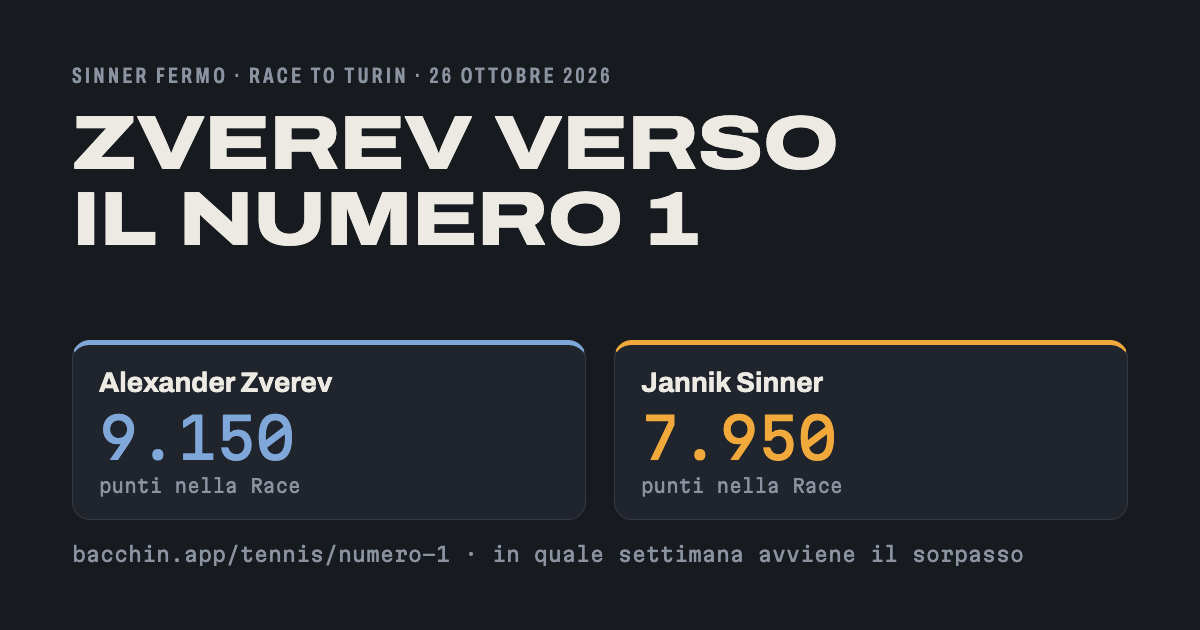
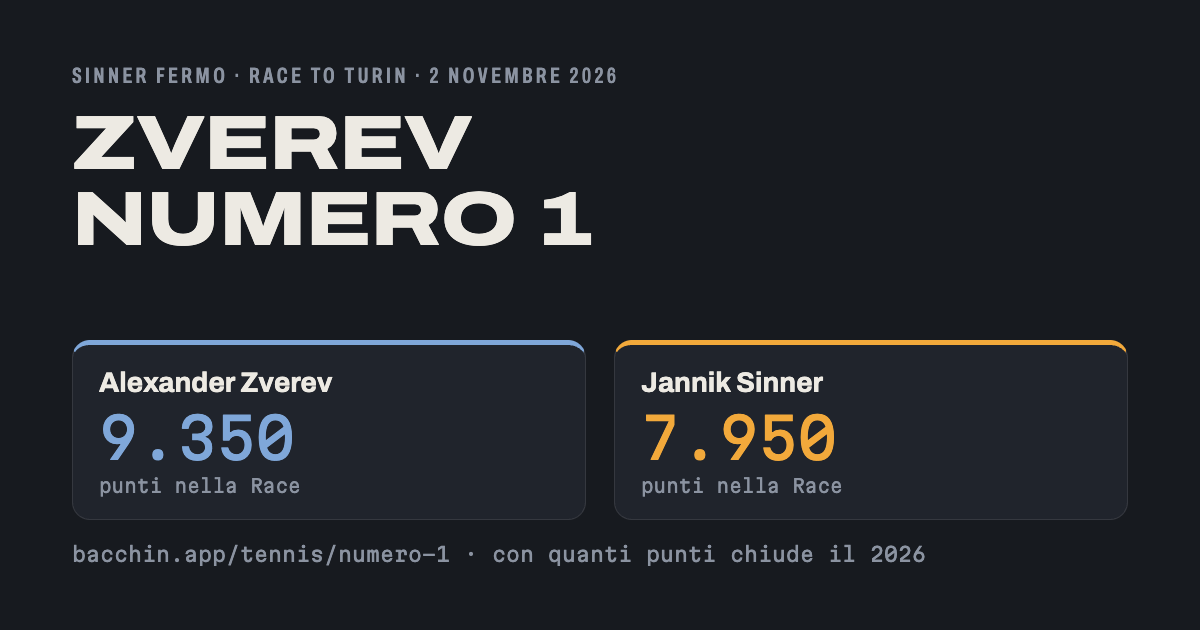
Simulatore ATP: punti al 2 novembre 2026, Zverev numero 1
Zverev semifinale a Vienna (+200), escono i punti di Parigi 2025.
Classifica: Zverev 9.550, Sinner 9.450. Race: Zverev 9.350, Sinner 7.950.
Nuova domanda della pagina: con quanti punti Zverev chiude il 2026.

diff --git a/tennis/numero-1.html b/tennis/numero-1.html
@@ -3,10 +3,10 @@
 <head>
 <meta charset="UTF-8">
 <meta name="viewport" content="width=device-width, initial-scale=1.0, viewport-fit=cover">
-<title>Zverev verso il numero 1 ATP: quando sorpassa Sinner? Simulatore 2026</title>
-<meta name="description" content="Sinner ha chiuso la stagione per l'infortunio al ginocchio e resta a 7.950 punti: Zverev ne ha già 9.150. Scegli i risultati di Zverev da Vienna e Basilea alle ATP Finals e vedi in quale settimana diventa numero 1.">
-<meta property="og:title" content="Sinner fermo, Zverev verso il numero 1: quando arriva il sorpasso">
-<meta property="og:description" content="Zverev è davanti di 1.200 punti nella Race e Sinner non gioca più nel 2026. Scegli i risultati da Vienna a Torino e guarda in quale settimana cambia il numero 1.">
+<title>Zverev numero 1 ATP: con quanti punti chiude il 2026? Simulatore</title>
+<meta name="description" content="Dal 2 novembre Zverev è numero 1 ATP con 9.550 punti, 100 più di Sinner, che ha chiuso la stagione per l'infortunio al ginocchio. Scegli i risultati di Zverev a Parigi e alle ATP Finals e vedi con quanti punti chiude l'anno.">
+<meta property="og:title" content="Zverev è il nuovo numero 1 ATP: con quanti punti chiude il 2026">
+<meta property="og:description" content="Zverev è davanti di 1.400 punti nella Race e Sinner non gioca più nel 2026. Scegli i risultati a Parigi e a Torino e guarda come si allarga il distacco settimana per settimana.">
 <meta property="og:type" content="website">
 <meta property="og:url" content="https://bacchin.app/tennis/numero-1">
 <meta property="og:image" content="https://bacchin.app/tennis/numero-1.png">
@@ -89,8 +89,8 @@
   <div class="app-hero">
     <p class="avviso-lingua" id="avviso-lingua" hidden><a id="avviso-lingua-link" href="/tennis/number-1" hreflang="en" lang="en">This page is available in English →</a></p>
     <p class="etichetta" data-t="occhiello">Simulatore · classifica ATP 2026</p>
-    <h1 data-t="titolo">Sinner fermo, Zverev verso il numero 1: quando arriva il sorpasso?</h1>
-    <p class="tesi" data-t="tesi">Sinner ha chiuso la stagione per l'infortunio al ginocchio: non farà altri punti e a fine anno resterà a 7.950. Zverev ne ha già 9.150 nella Race, quindi finirà il 2026 davanti a lui. Resta da capire quando lo supera in classifica: scegli i risultati di Zverev e guarda in quale settimana diventa numero 1.</p>
+    <h1 data-t="titolo">Zverev numero 1 ATP: con quanti punti chiude il 2026?</h1>
+    <p class="tesi" data-t="tesi">Dal 2 novembre Zverev è numero 1 ATP: 9.550 punti contro i 9.450 di Sinner, che ha chiuso la stagione per l'infortunio al ginocchio. Sinner non farà altri punti. Il 16 novembre perde i 1.500 delle Finals 2025 e scende a 7.950. Scegli i risultati di Zverev a Parigi e a Torino e guarda con quanti punti chiude l'anno.</p>
     <p class="lingua etichetta"><a id="altra-lingua" href="/tennis/number-1" hreflang="en">English</a></p>
   </div>
 
@@ -104,11 +104,11 @@
       </div>
       <div class="scarto">
         <span class="etichetta" data-t="distacco">Distacco</span>
-        <span class="scarto__valore" id="scarto">1.200</span>
+        <span class="scarto__valore" id="scarto">1.400</span>
       </div>
       <div class="giocatore giocatore--z">
         <div class="giocatore__nome">Alexander Zverev</div>
-        <div class="giocatore__punti" id="punti-z">9.150</div>
+        <div class="giocatore__punti" id="punti-z">9.350</div>
         <div class="giocatore__sotto" id="sotto-z"></div>
       </div>
     </div>
@@ -125,7 +125,7 @@
     <div class="tornei" id="tornei"></div>
 
     <h2 data-t="h-settimane">La classifica ATP, settimana per settimana</h2>
-    <p data-t="settimane-intro">La classifica ATP conta le ultime 52 settimane: i punti del 2025 escono 52 settimane dopo, non quando si gioca lo stesso torneo nel 2026. Nel 2026 Shanghai è finito più tardi, quindi i punti di Vienna e Basilea 2025 sono usciti il 26 ottobre e quelli di Parigi 2025 escono il 2 novembre, una settimana prima dei tornei 2026. Quelli delle Finals 2025 escono lunedì 16 novembre, prima che il torneo finisca. Dopo le Finals restano solo i punti del 2026: la classifica coincide con la Race.</p>
+    <p data-t="settimane-intro">La classifica ATP conta le ultime 52 settimane: i punti del 2025 escono 52 settimane dopo, non quando si gioca lo stesso torneo nel 2026. Nel 2026 Shanghai è finito più tardi, quindi i punti di Vienna e Basilea 2025 sono usciti il 26 ottobre e quelli di Parigi 2025 il 2 novembre, una settimana prima dei tornei 2026. Quelli delle Finals 2025 escono lunedì 16 novembre, prima che il torneo finisca. Dopo le Finals restano solo i punti del 2026: la classifica coincide con la Race.</p>
     <div class="scorri">
       <table class="tabella">
         <thead><tr><th data-t="quando">Quando</th><th class="num">Sinner</th><th class="num">Zverev</th><th data-t="n1">N. 1</th></tr></thead>
@@ -149,17 +149,18 @@
 (function () {
   'use strict';
 
-  // ── Dati al 26 ottobre 2026, usciti i punti di Vienna 2025 ──────────────
-  // Classifica ATP ufficiale del 26 ottobre: pagina ATP «Rank Breakdown» di entrambi
-  //   = live-tennis.eu (Pts) + i punti di Parigi 2025 che live-tennis.eu ha già tolto.
-  // Race: live-tennis.eu. Sinner non gioca più nel 2026 (ginocchio). Zverev a Vienna non ha ancora giocato.
-  // Scadenze 2025 (date «Drop date» della pagina ATP): Parigi il 2 novembre, Finals il 16 novembre.
-  //   Sinner 10.450 − (1000 + 1500) = 7.950 = Race
-  //   Zverev  9.750 − ( 400 +  200) = 9.150 = Race (i 10 punti di Montreal ora contano: nessun torneo Non-Countable)
+  // ── Dati al 2 novembre 2026, usciti i punti di Parigi 2025 ──────────────
+  // Classifica del 2 novembre: live-tennis.eu (Pts), a Parigi nessuno dei due ha ancora giocato.
+  //   Confronto con la pagina ATP «Rank Breakdown» del 26 ottobre: Zverev 9.750 + 200 (semifinale a Vienna) − 400 (Parigi 2025) = 9.550,
+  //   Sinner 10.450 − 1.000 (Parigi 2025) = 9.450. Zverev è n. 1 dal 2 novembre.
+  // Race: live-tennis.eu. Sinner non gioca più nel 2026 (ginocchio).
+  // Scadenze 2025 ancora da togliere («Drop date» della pagina ATP): Finals il 16 novembre.
+  //   Sinner 9.450 − 1500 = 7.950 = Race
+  //   Zverev 9.550 −  200 = 9.350 = Race
   //   La riga di fine anno usa comunque la Race.
   var BASE = {
-    s: { classifica: 10450, race: 7950 },
-    z: { classifica: 9750, race: 9150 }
+    s: { classifica: 9450, race: 7950 },
+    z: { classifica: 9550, race: 9350 }
   };
 
   var CAT = {
@@ -173,12 +174,9 @@
 
   // cade: i punti 2025 che escono dalla classifica ATP con questo torneo
   var TORNEI = [
-    { id: 'a500', cat: 'A500', nome: { it: 'Vienna o Basilea', en: 'Vienna or Basel' }, quando: { it: '26 ott – 1 nov', en: '26 Oct – 1 Nov' },
-      s: { cade: 0, fuori: true, nota: { it: 'Infortunato, stagione finita. I 500 punti di Vienna 2025 sono usciti il 26 ottobre', en: 'Injured, season over. His 500 points from Vienna 2025 dropped on 26 October' } },
-      z: { cade: 0, nota: { it: '2025: finale a Vienna, 330 punti, già usciti il 26 ottobre. Nel 2026 è a Vienna', en: '2025: Vienna final, 330 points, already dropped on 26 October. In 2026 he plays Vienna' } } },
     { id: 'par', cat: 'M1000', nome: { it: 'Parigi', en: 'Paris' }, quando: { it: '2 – 8 novembre', en: '2 – 8 November' },
-      s: { cade: 1000, fuori: true, nota: { it: 'Infortunato, stagione finita. Il 2 novembre escono i 1.000 punti del 2025', en: 'Injured, season over. His 1,000 points from 2025 drop on 2 November' } },
-      z: { cade: 400, nota: { it: '2025: semifinale, 400 punti, escono il 2 novembre', en: '2025: semi-final, 400 points, dropping on 2 November' } } },
+      s: { cade: 0, fuori: true, nota: { it: 'Infortunato, stagione finita. I 1.000 punti del 2025 sono usciti il 2 novembre', en: 'Injured, season over. His 1,000 points from 2025 dropped on 2 November' } },
+      z: { cade: 0, nota: { it: '2025: semifinale, 400 punti, già usciti il 2 novembre', en: '2025: semi-final, 400 points, already dropped on 2 November' } } },
     { id: 'fin', cat: 'FIN', nome: { it: 'ATP Finals, Torino', en: 'ATP Finals, Turin' }, quando: { it: '15 – 22 novembre', en: '15 – 22 November' },
       s: { cade: 1500, fuori: true, nota: { it: 'Infortunato, stagione finita. Il 16 novembre escono i 1.500 punti del 2025', en: 'Injured, season over. His 1,500 points from 2025 drop on 16 November' } },
       z: { cade: 200, nota: { it: '2025: girone, una vittoria, 200 punti', en: '2025: group stage, one win, 200 points' } } }
@@ -186,13 +184,11 @@
 
   // righe della tabella settimanale: tornei già conclusi a quel punto
   var TAPPE = [
-    { dopo: [], it: 'Oggi, 26 ottobre', en: 'Today, 26 October' },
-    // le scadenze 2025 contano per settimana: Parigi 2025 esce una settimana prima del torneo 2026
-    { dopo: ['a500'], scarta: ['par'], it: 'Dopo Vienna e Basilea, 2 novembre (escono anche i punti di Parigi 2025)', en: 'After Vienna and Basel, 2 November (2025 Paris points drop too)' },
-    { dopo: ['a500', 'par'], it: 'Dopo Parigi, 9 novembre', en: 'After Paris, 9 November' },
+    { dopo: [], it: 'Oggi, 2 novembre', en: 'Today, 2 November' },
+    { dopo: ['par'], it: 'Dopo Parigi, 9 novembre', en: 'After Paris, 9 November' },
     // i punti delle Finals 2025 escono il lunedì dopo l'ultima settimana di tornei, prima che le Finals finiscano
-    { dopo: ['a500', 'par'], scarta: ['fin'], it: 'Lunedì 16 novembre, escono le Finals 2025', en: 'Monday 16 November, 2025 Finals points drop' },
-    { dopo: ['a500', 'par', 'fin'], it: 'Fine anno, dopo le Finals', en: 'Year end, after the Finals' }
+    { dopo: ['par'], scarta: ['fin'], it: 'Lunedì 16 novembre, escono le Finals 2025', en: 'Monday 16 November, 2025 Finals points drop' },
+    { dopo: ['par', 'fin'], it: 'Fine anno, dopo le Finals', en: 'Year end, after the Finals' }
   ];
 
   var ETICHETTE = {
@@ -207,13 +203,13 @@
   var T = {
     it: {
       tutti: 'Tutti gli strumenti', occhiello: 'Simulatore · classifica ATP 2026',
-      titolo: 'Sinner fermo, Zverev verso il numero 1: quando arriva il sorpasso?',
-      tesi: 'Sinner ha chiuso la stagione per l\'infortunio al ginocchio: non farà altri punti e a fine anno resterà a 7.950. Zverev ne ha già 9.150 nella Race, quindi finirà il 2026 davanti a lui. Resta da capire quando lo supera in classifica: scegli i risultati di Zverev e guarda in quale settimana diventa numero 1.',
+      titolo: 'Zverev numero 1 ATP: con quanti punti chiude il 2026?',
+      tesi: 'Dal 2 novembre Zverev è numero 1 ATP: 9.550 punti contro i 9.450 di Sinner, che ha chiuso la stagione per l\'infortunio al ginocchio. Sinner non farà altri punti. Il 16 novembre perde i 1.500 delle Finals 2025 e scende a 7.950. Scegli i risultati di Zverev a Parigi e a Torino e guarda con quanti punti chiude l\'anno.',
       'h-fine': 'Classifica di fine anno', distacco: 'Distacco', 'h-tornei': 'I tornei che restano',
       istruzioni: 'Per ogni torneo scegli fin dove arriva Zverev. Sinner non gioca: i suoi punti del 2025 escono comunque dalla classifica ATP.',
       'p-2025': 'Zverev come nel 2025', 'p-zverev': 'Zverev vince tutto', 'p-zero': 'Azzera', condividi: 'Condividi lo scenario',
       'h-settimane': 'La classifica ATP, settimana per settimana',
-      'settimane-intro': 'La classifica ATP conta le ultime 52 settimane: i punti del 2025 escono 52 settimane dopo, non quando si gioca lo stesso torneo nel 2026. Nel 2026 Shanghai è finito più tardi, quindi i punti di Vienna e Basilea 2025 sono usciti il 26 ottobre e quelli di Parigi 2025 escono il 2 novembre, una settimana prima dei tornei 2026. Quelli delle Finals 2025 escono lunedì 16 novembre, prima che il torneo finisca. Dopo le Finals restano solo i punti del 2026: la classifica coincide con la Race.',
+      'settimane-intro': 'La classifica ATP conta le ultime 52 settimane: i punti del 2025 escono 52 settimane dopo, non quando si gioca lo stesso torneo nel 2026. Nel 2026 Shanghai è finito più tardi, quindi i punti di Vienna e Basilea 2025 sono usciti il 26 ottobre e quelli di Parigi 2025 il 2 novembre, una settimana prima dei tornei 2026. Quelli delle Finals 2025 escono lunedì 16 novembre, prima che il torneo finisca. Dopo le Finals restano solo i punti del 2026: la classifica coincide con la Race.',
       quando: 'Quando', n1: 'N. 1', privacy: 'Privacy e assistenza',
       race: 'Race oggi', guadagna: 'punti in più', copiato: 'Link copiato',
       vS: 'Sinner chiude il 2026 da numero 1, con {d} punti di vantaggio.',
@@ -222,17 +218,17 @@
       serve: 'Sinner non gioca più nel 2026 e non può più raggiungerlo.',
       nessuno: 'Nessun risultato scelto: sono i punti della Race di oggi.',
       doppio: 'Due vincitori nello stesso torneo: uno dei due risultati non è possibile.',
-      fonte: 'Punti al 26 ottobre 2026, usciti i punti di Vienna e Basilea 2025: classifica ATP ufficiale del 26 ottobre (dettaglio punti ATP di entrambi) e Race to Turin da live-tennis.eu. Sinner ha annunciato il 6 ottobre la fine della stagione per l\'infortunio al ginocchio. Per Zverev la classifica è scesa di 320 punti e non di 330: con l\'uscita di Vienna 2025 sono tornati a contare i suoi 10 punti di Montreal. Punti per turno secondo il regolamento ATP 2026. Semplificazione: il calcolo somma tutti i risultati e non applica il limite dei 19 tornei che contano. Il confronto riguarda solo Sinner e Zverev. Non è un prodotto ufficiale ATP.'
+      fonte: 'Punti al 2 novembre 2026, usciti i punti di Parigi 2025: classifica ATP del 2 novembre da live-tennis.eu, confrontata con il dettaglio punti ATP di entrambi, e Race to Turin da live-tennis.eu. Zverev è numero 1 dal 2 novembre, dopo la semifinale a Vienna. Sinner ha annunciato il 6 ottobre la fine della stagione per l\'infortunio al ginocchio. Punti per turno secondo il regolamento ATP 2026. Semplificazione: il calcolo somma tutti i risultati e non applica il limite dei 19 tornei che contano. Il confronto riguarda solo Sinner e Zverev. Non è un prodotto ufficiale ATP.'
     },
     en: {
       tutti: 'All tools', occhiello: 'Simulator · ATP rankings 2026',
-      titolo: 'Sinner out, Zverev heading for No. 1: when does the ranking flip?',
-      tesi: 'Sinner has ended his season with a knee injury: he will add no more points and will finish the year on 7,950. Zverev already has 9,150 in the Race, so he will finish 2026 ahead of him. The open question is when he passes him in the ranking: pick Zverev’s results and see in which week he becomes No. 1.',
+      titolo: 'Zverev is world No. 1: how many points does he finish 2026 on?',
+      tesi: 'Since 2 November Zverev has been world No. 1: 9,550 points to Sinner’s 9,450. Sinner has ended his season with a knee injury and will add no more points. On 16 November he drops his 1,500 points from the 2025 Finals and falls to 7,950. Pick Zverev’s results in Paris and Turin and see how many points he finishes the year on.',
       'h-fine': 'Year-end ranking', distacco: 'Gap', 'h-tornei': 'Remaining events',
       istruzioni: 'For each event, choose how far Zverev goes. Sinner is not playing: his 2025 points still drop out of the ATP ranking.',
       'p-2025': 'Zverev as in 2025', 'p-zverev': 'Zverev wins everything', 'p-zero': 'Reset', condividi: 'Share this scenario',
       'h-settimane': 'The ATP ranking, week by week',
-      'settimane-intro': 'The ATP ranking covers the last 52 weeks: 2025 points drop 52 weeks later, not when the same event is played in 2026. Shanghai finished later this year, so the 2025 Vienna and Basel points dropped on 26 October and the 2025 Paris points drop on 2 November, a week before the 2026 events. The 2025 Finals points drop on Monday 16 November, before the event ends. After the Finals only 2026 points are left, and the ranking equals the Race.',
+      'settimane-intro': 'The ATP ranking covers the last 52 weeks: 2025 points drop 52 weeks later, not when the same event is played in 2026. Shanghai finished later this year, so the 2025 Vienna and Basel points dropped on 26 October and the 2025 Paris points dropped on 2 November, a week before the 2026 events. The 2025 Finals points drop on Monday 16 November, before the event ends. After the Finals only 2026 points are left, and the ranking equals the Race.',
       quando: 'When', n1: 'No. 1', privacy: 'Privacy and support',
       race: 'Race today', guadagna: 'points added', copiato: 'Link copied',
       vS: 'Sinner finishes 2026 as No. 1, {d} points ahead.',
@@ -241,7 +237,7 @@
       serve: 'Sinner is not playing again in 2026 and can no longer catch him.',
       nessuno: 'No results picked yet: these are today’s Race points.',
       doppio: 'Two winners of the same event: one of the two results is not possible.',
-      fonte: 'Points as of 26 October 2026, after the 2025 Vienna and Basel points dropped: official ATP ranking of 26 October (ATP rankings breakdown for both players) and Race to Turin from live-tennis.eu. Sinner announced on 6 October that his season is over because of a knee injury. Zverev’s ranking fell by 320 points, not 330: when his 2025 Vienna points dropped, his 10 Montreal points started counting again. Points per round per the 2026 ATP rules. Simplification: all results are added up; the best-19 rule is not applied. The comparison covers Sinner and Zverev only. Not an official ATP product.'
+      fonte: 'Points as of 2 November 2026, after the 2025 Paris points dropped: ATP ranking of 2 November from live-tennis.eu, checked against the ATP rankings breakdown for both players, and Race to Turin from live-tennis.eu. Zverev has been world No. 1 since 2 November, after reaching the Vienna semi-finals. Sinner announced on 6 October that his season is over because of a knee injury. Points per round per the 2026 ATP rules. Simplification: all results are added up; the best-19 rule is not applied. The comparison covers Sinner and Zverev only. Not an official ATP product.'
     }
   };
 
@@ -363,8 +359,8 @@
   }
 
   var PRESET = {
-    '2025': { s: {}, z: { a500: 'F', par: 'SF', fin: 'RR1' } },
-    zverev: { s: {}, z: { a500: 'W', par: 'W', fin: 'W3' } },
+    '2025': { s: {}, z: { par: 'SF', fin: 'RR1' } },
+    zverev: { s: {}, z: { par: 'W', fin: 'W3' } },
     zero: { s: {}, z: {} }
   };
 
@@ -387,7 +383,7 @@
   // lingua
   if (lingua === 'en') {
     document.documentElement.lang = 'en';
-    document.title = 'Zverev heading for ATP No. 1: when does he pass Sinner? 2026 simulator';
+    document.title = 'Zverev is world No. 1: how many points does he finish 2026 on? Simulator';
     document.querySelectorAll('[data-t]').forEach(function (el) { el.textContent = t(el.dataset.t); });
     var al = document.getElementById('altra-lingua');
     al.textContent = 'Italiano'; al.href = '/tennis/numero-1'; al.hreflang = 'it';

diff --git a/tennis/number-1.html b/tennis/number-1.html
@@ -3,10 +3,10 @@
 <head>
 <meta charset="UTF-8">
 <meta name="viewport" content="width=device-width, initial-scale=1.0, viewport-fit=cover">
-<title>Zverev heading for ATP No. 1: when does he pass Sinner? 2026 simulator</title>
-<meta name="description" content="Sinner has ended his season with a knee injury and stays on 7,950 points; Zverev already has 9,150. Pick Zverev's results from Vienna and Basel to the ATP Finals and see in which week he becomes world No. 1.">
-<meta property="og:title" content="Sinner out, Zverev heading for No. 1: when does the ranking flip?">
-<meta property="og:description" content="Zverev leads the Race by 1,200 points and Sinner is not playing again in 2026. Pick the results from Vienna to Turin and see in which week the No. 1 changes.">
+<title>Zverev is world No. 1: how many points does he finish 2026 on? Simulator</title>
+<meta name="description" content="Since 2 November Zverev has been world No. 1 with 9,550 points, 100 more than Sinner, who has ended his season with a knee injury. Pick Zverev's results in Paris and at the ATP Finals and see how many points he finishes the year on.">
+<meta property="og:title" content="Zverev is the new world No. 1: how many points will he finish 2026 on?">
+<meta property="og:description" content="Zverev leads the Race by 1,400 points and Sinner is not playing again in 2026. Pick the results in Paris and Turin and watch the gap grow week by week.">
 <meta property="og:type" content="website">
 <meta property="og:url" content="https://bacchin.app/tennis/number-1">
 <meta property="og:image" content="https://bacchin.app/tennis/number-1.png">
@@ -89,8 +89,8 @@
   <div class="app-hero">
     <p class="avviso-lingua" id="avviso-lingua" hidden><a id="avviso-lingua-link" href="/tennis/number-1" hreflang="en" lang="en">This page is available in English →</a></p>
     <p class="etichetta" data-t="occhiello">Simulatore · classifica ATP 2026</p>
-    <h1 data-t="titolo">Sinner out, Zverev heading for No. 1: when does the ranking flip?</h1>
-    <p class="tesi" data-t="tesi">Sinner has ended his season with a knee injury: he will add no more points and will finish the year on 7,950. Zverev already has 9,150 in the Race, so he will finish 2026 ahead of him. The open question is when he passes him in the ranking: pick Zverev’s results and see in which week he becomes No. 1.</p>
+    <h1 data-t="titolo">Zverev is world No. 1: how many points does he finish 2026 on?</h1>
+    <p class="tesi" data-t="tesi">Since 2 November Zverev has been world No. 1: 9,550 points to Sinner’s 9,450. Sinner has ended his season with a knee injury and will add no more points. On 16 November he drops his 1,500 points from the 2025 Finals and falls to 7,950. Pick Zverev’s results in Paris and Turin and see how many points he finishes the year on.</p>
     <p class="lingua etichetta"><a id="altra-lingua" href="/tennis/number-1" hreflang="en">English</a></p>
   </div>
 
@@ -104,11 +104,11 @@
       </div>
       <div class="scarto">
         <span class="etichetta" data-t="distacco">Distacco</span>
-        <span class="scarto__valore" id="scarto">1.200</span>
+        <span class="scarto__valore" id="scarto">1.400</span>
       </div>
       <div class="giocatore giocatore--z">
         <div class="giocatore__nome">Alexander Zverev</div>
-        <div class="giocatore__punti" id="punti-z">9.150</div>
+        <div class="giocatore__punti" id="punti-z">9.350</div>
         <div class="giocatore__sotto" id="sotto-z"></div>
       </div>
     </div>
@@ -125,7 +125,7 @@
     <div class="tornei" id="tornei"></div>
 
     <h2 data-t="h-settimane">La classifica ATP, settimana per settimana</h2>
-    <p data-t="settimane-intro">La classifica ATP conta le ultime 52 settimane: i punti del 2025 escono 52 settimane dopo, non quando si gioca lo stesso torneo nel 2026. Nel 2026 Shanghai è finito più tardi, quindi i punti di Vienna e Basilea 2025 sono usciti il 26 ottobre e quelli di Parigi 2025 escono il 2 novembre, una settimana prima dei tornei 2026. Quelli delle Finals 2025 escono lunedì 16 novembre, prima che il torneo finisca. Dopo le Finals restano solo i punti del 2026: la classifica coincide con la Race.</p>
+    <p data-t="settimane-intro">La classifica ATP conta le ultime 52 settimane: i punti del 2025 escono 52 settimane dopo, non quando si gioca lo stesso torneo nel 2026. Nel 2026 Shanghai è finito più tardi, quindi i punti di Vienna e Basilea 2025 sono usciti il 26 ottobre e quelli di Parigi 2025 il 2 novembre, una settimana prima dei tornei 2026. Quelli delle Finals 2025 escono lunedì 16 novembre, prima che il torneo finisca. Dopo le Finals restano solo i punti del 2026: la classifica coincide con la Race.</p>
     <div class="scorri">
       <table class="tabella">
         <thead><tr><th data-t="quando">Quando</th><th class="num">Sinner</th><th class="num">Zverev</th><th data-t="n1">N. 1</th></tr></thead>
@@ -149,17 +149,18 @@
 (function () {
   'use strict';
 
-  // ── Dati al 26 ottobre 2026, usciti i punti di Vienna 2025 ──────────────
-  // Classifica ATP ufficiale del 26 ottobre: pagina ATP «Rank Breakdown» di entrambi
-  //   = live-tennis.eu (Pts) + i punti di Parigi 2025 che live-tennis.eu ha già tolto.
-  // Race: live-tennis.eu. Sinner non gioca più nel 2026 (ginocchio). Zverev a Vienna non ha ancora giocato.
-  // Scadenze 2025 (date «Drop date» della pagina ATP): Parigi il 2 novembre, Finals il 16 novembre.
-  //   Sinner 10.450 − (1000 + 1500) = 7.950 = Race
-  //   Zverev  9.750 − ( 400 +  200) = 9.150 = Race (i 10 punti di Montreal ora contano: nessun torneo Non-Countable)
+  // ── Dati al 2 novembre 2026, usciti i punti di Parigi 2025 ──────────────
+  // Classifica del 2 novembre: live-tennis.eu (Pts), a Parigi nessuno dei due ha ancora giocato.
+  //   Confronto con la pagina ATP «Rank Breakdown» del 26 ottobre: Zverev 9.750 + 200 (semifinale a Vienna) − 400 (Parigi 2025) = 9.550,
+  //   Sinner 10.450 − 1.000 (Parigi 2025) = 9.450. Zverev è n. 1 dal 2 novembre.
+  // Race: live-tennis.eu. Sinner non gioca più nel 2026 (ginocchio).
+  // Scadenze 2025 ancora da togliere («Drop date» della pagina ATP): Finals il 16 novembre.
+  //   Sinner 9.450 − 1500 = 7.950 = Race
+  //   Zverev 9.550 −  200 = 9.350 = Race
   //   La riga di fine anno usa comunque la Race.
   var BASE = {
-    s: { classifica: 10450, race: 7950 },
-    z: { classifica: 9750, race: 9150 }
+    s: { classifica: 9450, race: 7950 },
+    z: { classifica: 9550, race: 9350 }
   };
 
   var CAT = {
@@ -173,12 +174,9 @@
 
   // cade: i punti 2025 che escono dalla classifica ATP con questo torneo
   var TORNEI = [
-    { id: 'a500', cat: 'A500', nome: { it: 'Vienna o Basilea', en: 'Vienna or Basel' }, quando: { it: '26 ott – 1 nov', en: '26 Oct – 1 Nov' },
-      s: { cade: 0, fuori: true, nota: { it: 'Infortunato, stagione finita. I 500 punti di Vienna 2025 sono usciti il 26 ottobre', en: 'Injured, season over. His 500 points from Vienna 2025 dropped on 26 October' } },
-      z: { cade: 0, nota: { it: '2025: finale a Vienna, 330 punti, già usciti il 26 ottobre. Nel 2026 è a Vienna', en: '2025: Vienna final, 330 points, already dropped on 26 October. In 2026 he plays Vienna' } } },
     { id: 'par', cat: 'M1000', nome: { it: 'Parigi', en: 'Paris' }, quando: { it: '2 – 8 novembre', en: '2 – 8 November' },
-      s: { cade: 1000, fuori: true, nota: { it: 'Infortunato, stagione finita. Il 2 novembre escono i 1.000 punti del 2025', en: 'Injured, season over. His 1,000 points from 2025 drop on 2 November' } },
-      z: { cade: 400, nota: { it: '2025: semifinale, 400 punti, escono il 2 novembre', en: '2025: semi-final, 400 points, dropping on 2 November' } } },
+      s: { cade: 0, fuori: true, nota: { it: 'Infortunato, stagione finita. I 1.000 punti del 2025 sono usciti il 2 novembre', en: 'Injured, season over. His 1,000 points from 2025 dropped on 2 November' } },
+      z: { cade: 0, nota: { it: '2025: semifinale, 400 punti, già usciti il 2 novembre', en: '2025: semi-final, 400 points, already dropped on 2 November' } } },
     { id: 'fin', cat: 'FIN', nome: { it: 'ATP Finals, Torino', en: 'ATP Finals, Turin' }, quando: { it: '15 – 22 novembre', en: '15 – 22 November' },
       s: { cade: 1500, fuori: true, nota: { it: 'Infortunato, stagione finita. Il 16 novembre escono i 1.500 punti del 2025', en: 'Injured, season over. His 1,500 points from 2025 drop on 16 November' } },
       z: { cade: 200, nota: { it: '2025: girone, una vittoria, 200 punti', en: '2025: group stage, one win, 200 points' } } }
@@ -186,13 +184,11 @@
 
   // righe della tabella settimanale: tornei già conclusi a quel punto
   var TAPPE = [
-    { dopo: [], it: 'Oggi, 26 ottobre', en: 'Today, 26 October' },
-    // le scadenze 2025 contano per settimana: Parigi 2025 esce una settimana prima del torneo 2026
-    { dopo: ['a500'], scarta: ['par'], it: 'Dopo Vienna e Basilea, 2 novembre (escono anche i punti di Parigi 2025)', en: 'After Vienna and Basel, 2 November (2025 Paris points drop too)' },
-    { dopo: ['a500', 'par'], it: 'Dopo Parigi, 9 novembre', en: 'After Paris, 9 November' },
+    { dopo: [], it: 'Oggi, 2 novembre', en: 'Today, 2 November' },
+    { dopo: ['par'], it: 'Dopo Parigi, 9 novembre', en: 'After Paris, 9 November' },
     // i punti delle Finals 2025 escono il lunedì dopo l'ultima settimana di tornei, prima che le Finals finiscano
-    { dopo: ['a500', 'par'], scarta: ['fin'], it: 'Lunedì 16 novembre, escono le Finals 2025', en: 'Monday 16 November, 2025 Finals points drop' },
-    { dopo: ['a500', 'par', 'fin'], it: 'Fine anno, dopo le Finals', en: 'Year end, after the Finals' }
+    { dopo: ['par'], scarta: ['fin'], it: 'Lunedì 16 novembre, escono le Finals 2025', en: 'Monday 16 November, 2025 Finals points drop' },
+    { dopo: ['par', 'fin'], it: 'Fine anno, dopo le Finals', en: 'Year end, after the Finals' }
   ];
 
   var ETICHETTE = {
@@ -207,13 +203,13 @@
   var T = {
     it: {
       tutti: 'Tutti gli strumenti', occhiello: 'Simulatore · classifica ATP 2026',
-      titolo: 'Sinner fermo, Zverev verso il numero 1: quando arriva il sorpasso?',
-      tesi: 'Sinner ha chiuso la stagione per l\'infortunio al ginocchio: non farà altri punti e a fine anno resterà a 7.950. Zverev ne ha già 9.150 nella Race, quindi finirà il 2026 davanti a lui. Resta da capire quando lo supera in classifica: scegli i risultati di Zverev e guarda in quale settimana diventa numero 1.',
+      titolo: 'Zverev numero 1 ATP: con quanti punti chiude il 2026?',
+      tesi: 'Dal 2 novembre Zverev è numero 1 ATP: 9.550 punti contro i 9.450 di Sinner, che ha chiuso la stagione per l\'infortunio al ginocchio. Sinner non farà altri punti. Il 16 novembre perde i 1.500 delle Finals 2025 e scende a 7.950. Scegli i risultati di Zverev a Parigi e a Torino e guarda con quanti punti chiude l\'anno.',
       'h-fine': 'Classifica di fine anno', distacco: 'Distacco', 'h-tornei': 'I tornei che restano',
       istruzioni: 'Per ogni torneo scegli fin dove arriva Zverev. Sinner non gioca: i suoi punti del 2025 escono comunque dalla classifica ATP.',
       'p-2025': 'Zverev come nel 2025', 'p-zverev': 'Zverev vince tutto', 'p-zero': 'Azzera', condividi: 'Condividi lo scenario',
       'h-settimane': 'La classifica ATP, settimana per settimana',
-      'settimane-intro': 'La classifica ATP conta le ultime 52 settimane: i punti del 2025 escono 52 settimane dopo, non quando si gioca lo stesso torneo nel 2026. Nel 2026 Shanghai è finito più tardi, quindi i punti di Vienna e Basilea 2025 sono usciti il 26 ottobre e quelli di Parigi 2025 escono il 2 novembre, una settimana prima dei tornei 2026. Quelli delle Finals 2025 escono lunedì 16 novembre, prima che il torneo finisca. Dopo le Finals restano solo i punti del 2026: la classifica coincide con la Race.',
+      'settimane-intro': 'La classifica ATP conta le ultime 52 settimane: i punti del 2025 escono 52 settimane dopo, non quando si gioca lo stesso torneo nel 2026. Nel 2026 Shanghai è finito più tardi, quindi i punti di Vienna e Basilea 2025 sono usciti il 26 ottobre e quelli di Parigi 2025 il 2 novembre, una settimana prima dei tornei 2026. Quelli delle Finals 2025 escono lunedì 16 novembre, prima che il torneo finisca. Dopo le Finals restano solo i punti del 2026: la classifica coincide con la Race.',
       quando: 'Quando', n1: 'N. 1', privacy: 'Privacy e assistenza',
       race: 'Race oggi', guadagna: 'punti in più', copiato: 'Link copiato',
       vS: 'Sinner chiude il 2026 da numero 1, con {d} punti di vantaggio.',
@@ -222,17 +218,17 @@
       serve: 'Sinner non gioca più nel 2026 e non può più raggiungerlo.',
       nessuno: 'Nessun risultato scelto: sono i punti della Race di oggi.',
       doppio: 'Due vincitori nello stesso torneo: uno dei due risultati non è possibile.',
-      fonte: 'Punti al 26 ottobre 2026, usciti i punti di Vienna e Basilea 2025: classifica ATP ufficiale del 26 ottobre (dettaglio punti ATP di entrambi) e Race to Turin da live-tennis.eu. Sinner ha annunciato il 6 ottobre la fine della stagione per l\'infortunio al ginocchio. Per Zverev la classifica è scesa di 320 punti e non di 330: con l\'uscita di Vienna 2025 sono tornati a contare i suoi 10 punti di Montreal. Punti per turno secondo il regolamento ATP 2026. Semplificazione: il calcolo somma tutti i risultati e non applica il limite dei 19 tornei che contano. Il confronto riguarda solo Sinner e Zverev. Non è un prodotto ufficiale ATP.'
+      fonte: 'Punti al 2 novembre 2026, usciti i punti di Parigi 2025: classifica ATP del 2 novembre da live-tennis.eu, confrontata con il dettaglio punti ATP di entrambi, e Race to Turin da live-tennis.eu. Zverev è numero 1 dal 2 novembre, dopo la semifinale a Vienna. Sinner ha annunciato il 6 ottobre la fine della stagione per l\'infortunio al ginocchio. Punti per turno secondo il regolamento ATP 2026. Semplificazione: il calcolo somma tutti i risultati e non applica il limite dei 19 tornei che contano. Il confronto riguarda solo Sinner e Zverev. Non è un prodotto ufficiale ATP.'
     },
     en: {
       tutti: 'All tools', occhiello: 'Simulator · ATP rankings 2026',
-      titolo: 'Sinner out, Zverev heading for No. 1: when does the ranking flip?',
-      tesi: 'Sinner has ended his season with a knee injury: he will add no more points and will finish the year on 7,950. Zverev already has 9,150 in the Race, so he will finish 2026 ahead of him. The open question is when he passes him in the ranking: pick Zverev’s results and see in which week he becomes No. 1.',
+      titolo: 'Zverev is world No. 1: how many points does he finish 2026 on?',
+      tesi: 'Since 2 November Zverev has been world No. 1: 9,550 points to Sinner’s 9,450. Sinner has ended his season with a knee injury and will add no more points. On 16 November he drops his 1,500 points from the 2025 Finals and falls to 7,950. Pick Zverev’s results in Paris and Turin and see how many points he finishes the year on.',
       'h-fine': 'Year-end ranking', distacco: 'Gap', 'h-tornei': 'Remaining events',
       istruzioni: 'For each event, choose how far Zverev goes. Sinner is not playing: his 2025 points still drop out of the ATP ranking.',
       'p-2025': 'Zverev as in 2025', 'p-zverev': 'Zverev wins everything', 'p-zero': 'Reset', condividi: 'Share this scenario',
       'h-settimane': 'The ATP ranking, week by week',
-      'settimane-intro': 'The ATP ranking covers the last 52 weeks: 2025 points drop 52 weeks later, not when the same event is played in 2026. Shanghai finished later this year, so the 2025 Vienna and Basel points dropped on 26 October and the 2025 Paris points drop on 2 November, a week before the 2026 events. The 2025 Finals points drop on Monday 16 November, before the event ends. After the Finals only 2026 points are left, and the ranking equals the Race.',
+      'settimane-intro': 'The ATP ranking covers the last 52 weeks: 2025 points drop 52 weeks later, not when the same event is played in 2026. Shanghai finished later this year, so the 2025 Vienna and Basel points dropped on 26 October and the 2025 Paris points dropped on 2 November, a week before the 2026 events. The 2025 Finals points drop on Monday 16 November, before the event ends. After the Finals only 2026 points are left, and the ranking equals the Race.',
       quando: 'When', n1: 'No. 1', privacy: 'Privacy and support',
       race: 'Race today', guadagna: 'points added', copiato: 'Link copied',
       vS: 'Sinner finishes 2026 as No. 1, {d} points ahead.',
@@ -241,7 +237,7 @@
       serve: 'Sinner is not playing again in 2026 and can no longer catch him.',
       nessuno: 'No results picked yet: these are today’s Race points.',
       doppio: 'Two winners of the same event: one of the two results is not possible.',
-      fonte: 'Points as of 26 October 2026, after the 2025 Vienna and Basel points dropped: official ATP ranking of 26 October (ATP rankings breakdown for both players) and Race to Turin from live-tennis.eu. Sinner announced on 6 October that his season is over because of a knee injury. Zverev’s ranking fell by 320 points, not 330: when his 2025 Vienna points dropped, his 10 Montreal points started counting again. Points per round per the 2026 ATP rules. Simplification: all results are added up; the best-19 rule is not applied. The comparison covers Sinner and Zverev only. Not an official ATP product.'
+      fonte: 'Points as of 2 November 2026, after the 2025 Paris points dropped: ATP ranking of 2 November from live-tennis.eu, checked against the ATP rankings breakdown for both players, and Race to Turin from live-tennis.eu. Zverev has been world No. 1 since 2 November, after reaching the Vienna semi-finals. Sinner announced on 6 October that his season is over because of a knee injury. Points per round per the 2026 ATP rules. Simplification: all results are added up; the best-19 rule is not applied. The comparison covers Sinner and Zverev only. Not an official ATP product.'
     }
   };
 
@@ -363,8 +359,8 @@
   }
 
   var PRESET = {
-    '2025': { s: {}, z: { a500: 'F', par: 'SF', fin: 'RR1' } },
-    zverev: { s: {}, z: { a500: 'W', par: 'W', fin: 'W3' } },
+    '2025': { s: {}, z: { par: 'SF', fin: 'RR1' } },
+    zverev: { s: {}, z: { par: 'W', fin: 'W3' } },
     zero: { s: {}, z: {} }
   };
 
@@ -387,7 +383,7 @@
   // lingua
   if (lingua === 'en') {
     document.documentElement.lang = 'en';
-    document.title = 'Zverev heading for ATP No. 1: when does he pass Sinner? 2026 simulator';
+    document.title = 'Zverev is world No. 1: how many points does he finish 2026 on? Simulator';
     document.querySelectorAll('[data-t]').forEach(function (el) { el.textContent = t(el.dataset.t); });
     var al = document.getElementById('altra-lingua');
     al.textContent = 'Italiano'; al.href = '/tennis/numero-1'; al.hreflang = 'it';
